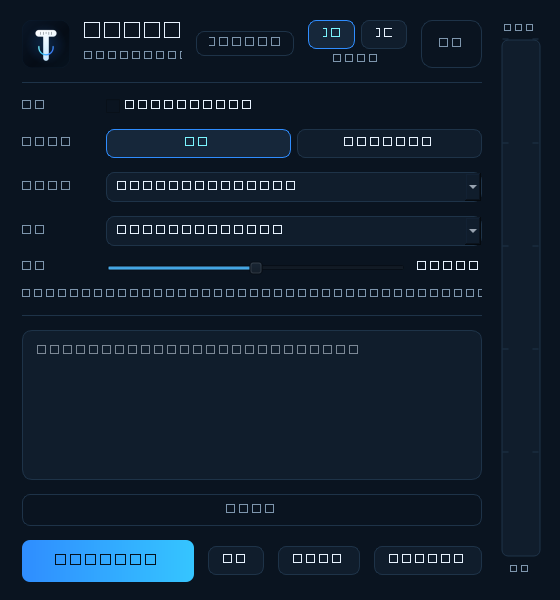
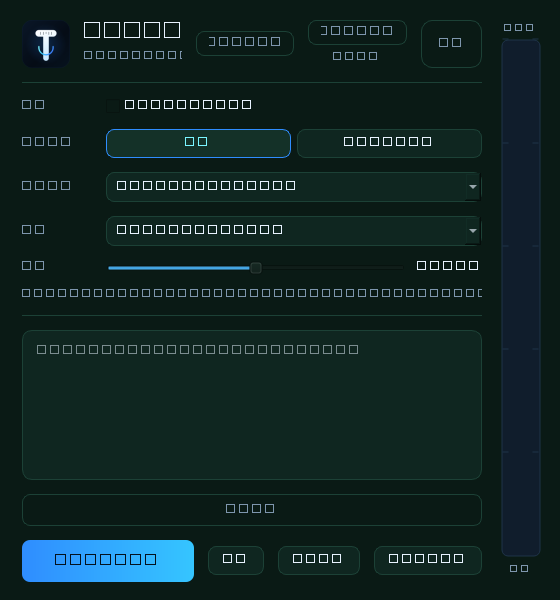
feat(beta): single-button mode switch, remove language hint under speed, emerald-tinted voice mode

Changed region(s): [[0.5464, 0.03, 0.7286, 0.12]]

diff --git a/tongsheng/ui/main_window.py b/tongsheng/ui/main_window.py
@@ -134,9 +134,11 @@ class MainWindow(QWidget):
 
         mode_box = QVBoxLayout()
         mode_box.setSpacing(2)
-        self.mode_row = ToggleRow(
-            [("voice", t("mode.voice")), ("text", t("mode.text"))], self._on_mode)
-        mode_box.addWidget(self.mode_row)
+        self.mode_button = QPushButton()
+        self.mode_button.setObjectName("ghost")
+        self.mode_button.setCursor(Qt.PointingHandCursor)
+        self.mode_button.clicked.connect(self._toggle_mode)
+        mode_box.addWidget(self.mode_button)
         self.mode_caption = QLabel(t("mode.caption"))
         self.mode_caption.setObjectName("hint")
         self.mode_caption.setAlignment(Qt.AlignCenter)
@@ -164,10 +166,6 @@ class MainWindow(QWidget):
         row.addWidget(self.text_input, 1)
         root.addLayout(row)
 
-        self.text_hint = QLabel(t("mode.text_langs"))
-        self.text_hint.setObjectName("hint")
-        self.text_hint.setVisible(False)
-        root.addWidget(self.text_hint)
 
         # input language (ASR + UI)
         row, _ = self._setting_row("language")
@@ -299,6 +297,9 @@ class MainWindow(QWidget):
         self.tray.set_record_output(enabled)
         self._update_hint()
 
+    def _toggle_mode(self) -> None:
+        self._on_mode("voice" if self.config.ui.text_mode else "text")
+
     def _on_mode(self, mode: str) -> None:
         text_mode = mode == "text"
         if text_mode == self.config.ui.text_mode:
@@ -309,24 +310,24 @@ class MainWindow(QWidget):
         self._apply_mode()
         if text_mode:
             self.service.release_asr()
-            self.hint.setText(t("mode.text_langs"))
         else:
             self.service.warmup_asr()
-            self.hint.setText(t("notify.asr_warming", lang=""))
+        self._update_hint()
         log.info("mode -> %s", "text" if text_mode else "voice")
 
     def _apply_mode(self) -> None:
         text_mode = bool(self.config.ui.text_mode)
         self.record_box.setVisible(not text_mode)
         self.text_input.setVisible(text_mode)
-        self.text_hint.setVisible(text_mode)
         if hasattr(self, "meter"):
             self.meter.setVisible(not text_mode)
-        self.mode_row.set_current("text" if text_mode else "voice")
+        self.mode_button.setText(t("mode.text") if text_mode else t("mode.voice"))
+        self.mode_button.setToolTip(t("mode.caption"))
         self.quality_label.setText(t("row.text") if text_mode else t("menu.mode"))
         self.language_label.setText(
             t("settings.ui_language") if text_mode else t("settings.input_language"))
         self.warmup_button.setVisible(not text_mode)
+        self.setStyleSheet(palette.stylesheet(voice_mode=not text_mode))
         self._refresh_talk_label()
         self._update_hint()
 
@@ -486,9 +487,7 @@ class MainWindow(QWidget):
         self.record_box.setText(t("menu.record"))
         self.record_box.setChecked(self.config.ui.record_output)
         self.text_input.setPlaceholderText(t("mode.text_placeholder"))
-        self.text_hint.setText(t("mode.text_langs"))
         self.mode_caption.setText(t("mode.caption"))
-        self.mode_row.retranslate([("voice", t("mode.voice")), ("text", t("mode.text"))])
         self._apply_mode()
         self.lang_row.set_current(self.config.language)
         self._fill_output_languages()

diff --git a/tongsheng/ui/palette.py b/tongsheng/ui/palette.py
@@ -13,7 +13,23 @@ BLUE = "#35C5FF"
 ACCENT = "#2F8DFF"
 ERROR = "#FF6B6B"
 
-STYLESHEET = f"""
+VOICE_BG = "#0A1A15"
+VOICE_PANEL = "#0F2620"
+VOICE_PANEL_HI = "#143128"
+VOICE_LINE = "#1C4136"
+
+
+def stylesheet(voice_mode: bool = False) -> str:
+    """Dark sheet, subtly greener in voice mode so the mode is felt at a glance."""
+    if not voice_mode:
+        return _SHEET
+    return (_SHEET.replace(PANEL_HI, VOICE_PANEL_HI)
+                  .replace(PANEL, VOICE_PANEL)
+                  .replace(LINE, VOICE_LINE)
+                  .replace(BG, VOICE_BG))
+
+
+_SHEET = f"""
 QWidget {{
     background: {BG};
     color: {TEXT};
@@ -204,4 +220,7 @@ QMenu::item:selected {{
 }}
 """
 
-__all__ = ["STYLESHEET"]
+STYLESHEET = stylesheet(False)
+
+__all__ = ["STYLESHEET", "stylesheet", "BG", "PANEL", "PANEL_HI", "LINE",
+           "TEXT", "MUTED", "CYAN", "BLUE", "ACCENT", "ERROR"]
